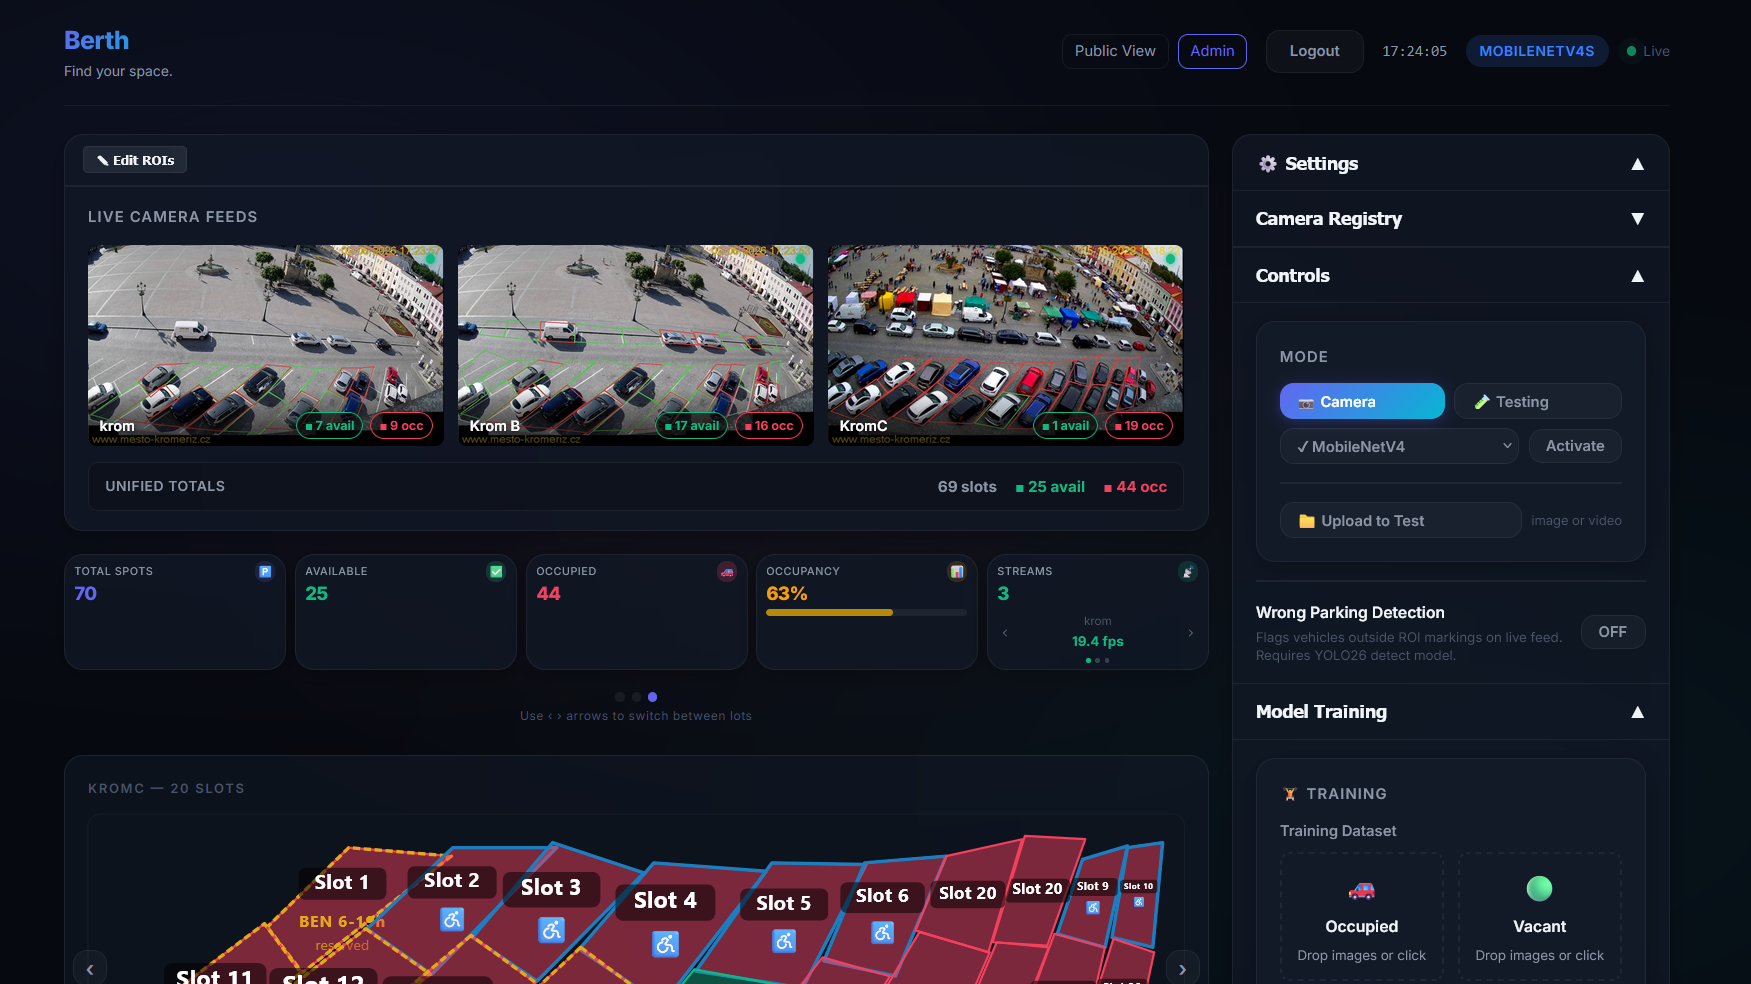
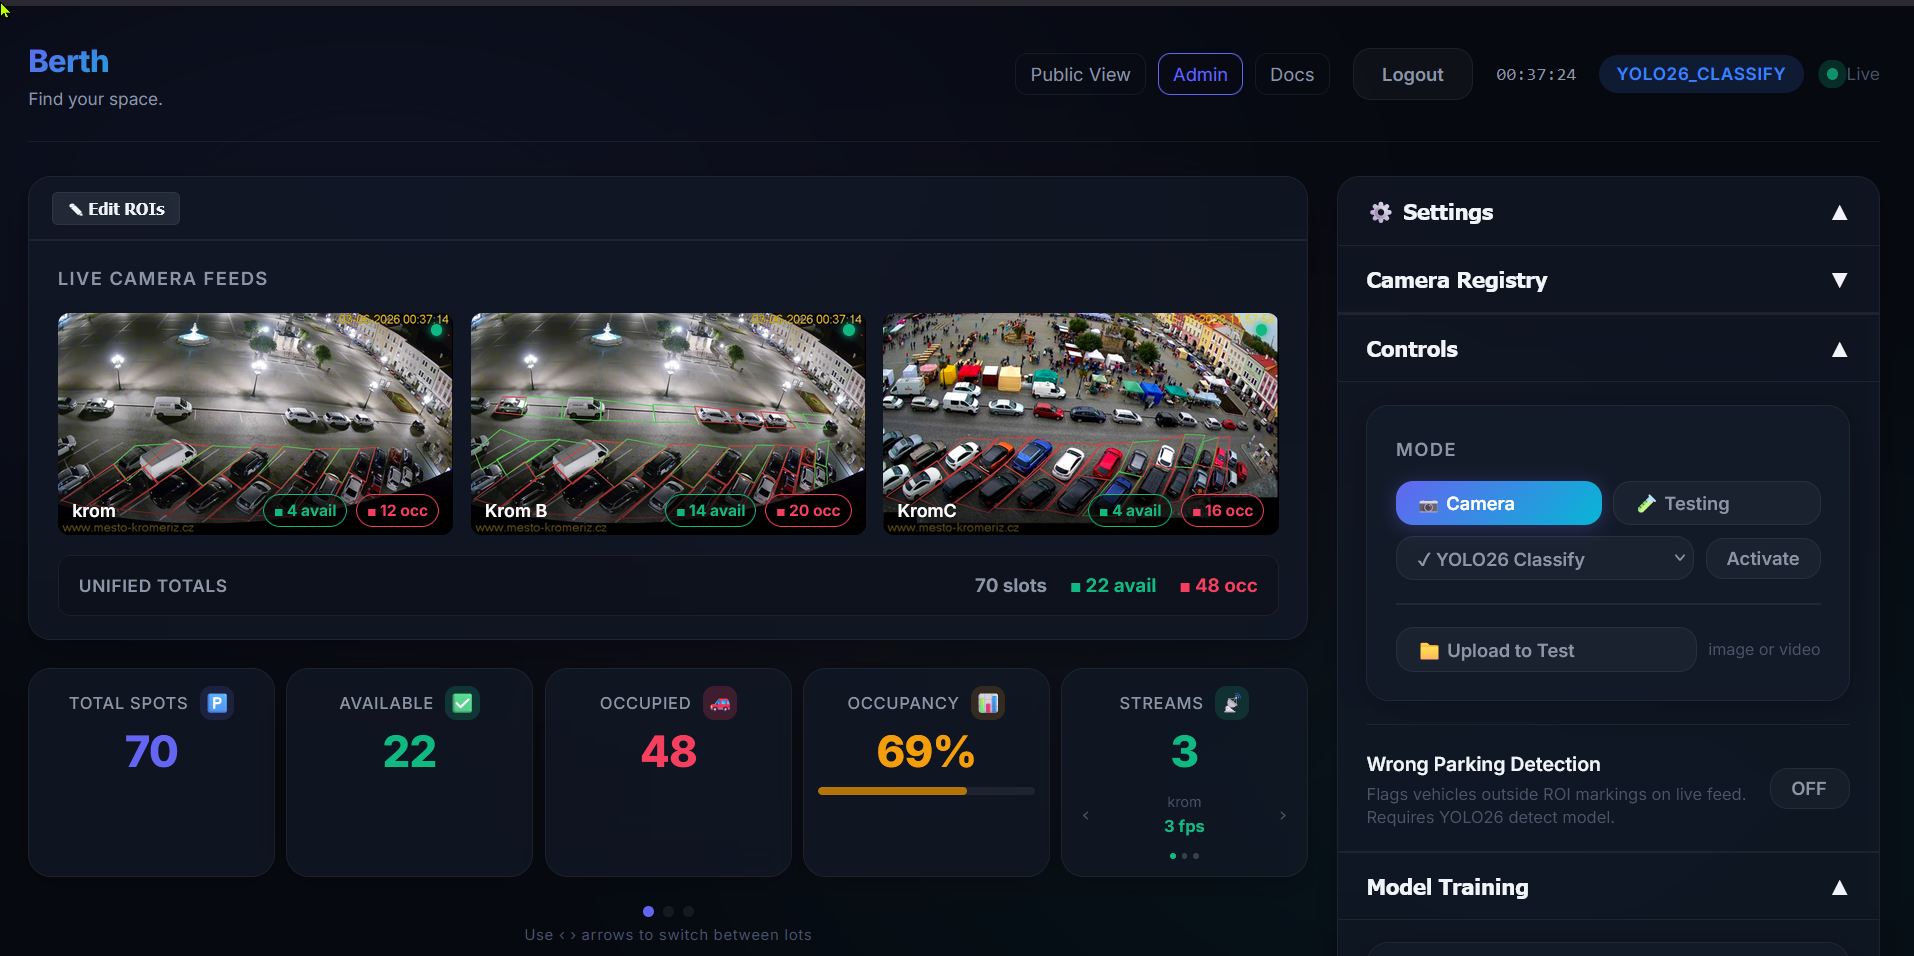
Make roi draw over other object. Beautify the public view

diff --git a/frontend/src/components/ControlPanel.jsx b/frontend/src/components/ControlPanel.jsx
@@ -1,4 +1,5 @@
 import { useState, useRef, useEffect } from 'react'
+import { createPortal } from 'react-dom'
 import { apiFetch } from '../api'
 import RoiEditor from './RoiEditor'
 
@@ -121,7 +122,7 @@ export default function ControlPanel({ apiAction, apiBase, modelInfo, fetchModel
   // Named ROI lots — separate from live camera ROIs
   const [lots, setLots]               = useState(loadLots)
   const [newLotName, setNewLotName]   = useState('')
-  const [selectedLotId, setSelectedLotId] = useState(() => loadLots()[0]?.id || DEFAULT_LOT.id)
+  const [selectedLotId, setSelectedLotId] = useState(() => loadLots()[0]?.id || DEFAULT_LOTS[0]?.id || null)
 
   // Keep live model in sync with server's active model
   useEffect(() => {
@@ -163,8 +164,7 @@ export default function ControlPanel({ apiAction, apiBase, modelInfo, fetchModel
   const saveRois = async (roiList) => {
     if (!selectedLotId) return
     try {
-      const data = await saveRoisToLot(selectedLotId, roiList)
-      showRoiMsg(`Saved ${data.saved} ROIs`)
+      await saveRoisToLot(selectedLotId, roiList)
     } catch (e) {
       showRoiMsg(`Error: ${e.message}`)
     }
@@ -480,13 +480,14 @@ export default function ControlPanel({ apiAction, apiBase, modelInfo, fetchModel
               <button
                 className="btn btn-ghost btn-sm"
                 onClick={() => {
-                  setModalLotName(lots.find(l => l.id === selectedLotId)?.name || '')
+                  setRois([])
+                  setModalLotName('')
                   setRoiEditorBg(uploadedImage)
                   setRoiModalOpen(true)
                 }}
                 title="Draw or edit ROIs — you can rename or save as a new set"
               >
-                ✏️ Draw ROIs
+                ✏️ ROI
               </button>
               {rois.length > 0 && (
                 <span className="badge badge-info">
@@ -559,10 +560,10 @@ export default function ControlPanel({ apiAction, apiBase, modelInfo, fetchModel
         </div>
       )}
 
-      {/* ROI Editor Modal — fullscreen */}
-      {roiModalOpen && (
+      {/* ROI Editor Modal — fullscreen portal */}
+      {roiModalOpen && createPortal(
         <div style={{
-          position: 'fixed', inset: 0, zIndex: 1000,
+          position: 'fixed', inset: 0, zIndex: 9999,
           background: 'rgba(0,0,0,0.96)',
           display: 'flex', flexDirection: 'column',
         }}>
@@ -571,8 +572,10 @@ export default function ControlPanel({ apiAction, apiBase, modelInfo, fetchModel
             padding: '10px 14px', borderBottom: '1px solid var(--border-color)',
             background: 'var(--bg-card)', flexShrink: 0, gap: 8,
           }}>
+            <style>{`.roi-name-input::placeholder{color:rgba(200,210,225,0.6)}`}</style>
             <input
               type="text"
+              className="roi-name-input"
               value={modalLotName}
               onChange={e => setModalLotName(e.target.value)}
               placeholder="ROI set name…"
@@ -601,8 +604,7 @@ export default function ControlPanel({ apiAction, apiBase, modelInfo, fetchModel
                 }
                 setSelectedLotId(targetId)
                 try {
-                  const data = await saveRoisToLot(targetId, rois)
-                  showRoiMsg(`Saved ${data.saved} ROIs to "${name}"`)
+                  await saveRoisToLot(targetId, rois)
                 } catch (e) {
                   showRoiMsg(`Error: ${e.message}`)
                 }
@@ -627,8 +629,19 @@ export default function ControlPanel({ apiAction, apiBase, modelInfo, fetchModel
             >✕</button>
           </div>
 
-          <div style={{ flex: 1, position: 'relative', overflow: 'hidden' }}>
-            <RoiEditor backgroundImage={roiEditorBg} rois={rois} onRoisChange={setRois} idPrefix="test" overlay />
+          <div style={{ flex: 1, display: 'flex', alignItems: 'center', justifyContent: 'center', overflow: 'hidden', background: '#000' }}>
+            <div style={{ position: 'relative', maxWidth: '100%', maxHeight: '100%' }}>
+              {roiEditorBg && (
+                <img
+                  src={roiEditorBg}
+                  alt="ROI background"
+                  style={{ display: 'block', maxWidth: '100%', maxHeight: 'calc(100vh - 60px)', objectFit: 'contain', userSelect: 'none', pointerEvents: 'none' }}
+                />
+              )}
+              <div style={{ position: 'absolute', inset: 0 }}>
+                <RoiEditor rois={rois} onRoisChange={setRois} idPrefix="test" overlay />
+              </div>
+            </div>
           </div>
 
           {roiMsg && (
@@ -640,7 +653,8 @@ export default function ControlPanel({ apiAction, apiBase, modelInfo, fetchModel
               {roiMsg}
             </div>
           )}
-        </div>
+        </div>,
+        document.body
       )}
     </div>
   )

diff --git a/frontend/src/pages/PublicView.jsx b/frontend/src/pages/PublicView.jsx
@@ -268,6 +268,18 @@ export default function PublicView() {
         </div>
       )}
 
+      {/* Metric cards */}
+      <div style={{
+        display: 'grid',
+        gridTemplateColumns: 'repeat(4, 1fr)',
+        gap: 16,
+        width: '100%',
+        maxWidth: 800,
+        marginBottom: 32,
+      }}>
+        <MetricCards metrics={displayMetrics} />
+      </div>
+
       {/* Lot map */}
       {allCameraSlots.length > 0 && (() => {
         const safeIdx = Math.min(lotMapIdx, allCameraSlots.length - 1)
@@ -306,18 +318,6 @@ export default function PublicView() {
           </div>
         )
       })()}
-
-      {/* Metric cards */}
-      <div style={{
-        display: 'grid',
-        gridTemplateColumns: 'repeat(4, 1fr)',
-        gap: 16,
-        width: '100%',
-        maxWidth: 800,
-        marginBottom: 32,
-      }}>
-        <MetricCards metrics={displayMetrics} />
-      </div>
 
       {/* Trends chart */}
       <div style={{ width: '100%', maxWidth: 800, marginBottom: 32 }}>

diff --git a/frontend/src/components/RoiEditor.jsx b/frontend/src/components/RoiEditor.jsx
@@ -1,6 +1,6 @@
 import { useState, useEffect, useRef, useCallback } from 'react'
 
-const COLORS = ["#2ecc71", "#e74c3c", "#3498db", "#f39c12", "#9b59b6"]
+const ROI_COLOR = '#10b981'
 const SPOT_TYPE_COLORS = { normal: null, reserved: '#e6a817', handicap: '#1a7fc1' }
 const HIT_PX = 10
 
@@ -90,7 +90,7 @@ export default function RoiEditor({
       const isDrawing = inProgress.length > 0
       const spotType = roi.spotType || 'normal'
       const typeColor = SPOT_TYPE_COLORS[spotType]
-      const baseColor = typeColor || (roi.color || COLORS[idx % COLORS.length])
+      const baseColor = typeColor || ROI_COLOR
       const color = isDrawing && !isSelected ? '#2ecc71' : baseColor
       const fillColor = isDrawing && !isSelected ? 'rgba(46,204,113,0.25)' : hexToRgba(color, 0.3)
       const poly = (isSelected && editPolygon) ? editPolygon : roi.polygon
@@ -303,7 +303,7 @@ export default function RoiEditor({
       id: `${idPrefix}_${Date.now()}_${Math.random().toString(36).slice(2, 7)}`,
       label: `Slot ${rois.length + 1}`,
       polygon,
-      color: COLORS[rois.length % COLORS.length],
+      color: ROI_COLOR,
       spotType: 'normal',
       owner: '',
     }])
@@ -314,7 +314,7 @@ export default function RoiEditor({
     const prop = proposals.find(p => p.id === propId)
     if (!prop) return
     const { proposed: _omit, ...base } = prop
-    commitChange([...rois, { ...base, color: COLORS[rois.length % COLORS.length] }])
+    commitChange([...rois, { ...base, color: ROI_COLOR }])
     onProposalsChange(proposals.filter(p => p.id !== propId))
     setSelectedProposalId(null)
   }, [proposals, rois, commitChange, onProposalsChange])
@@ -323,7 +323,7 @@ export default function RoiEditor({
     if (!onProposalsChange || proposals.length === 0) return
     const newRois = proposals.map((prop, i) => {
       const { proposed: _omit, ...base } = prop
-      return { ...base, color: COLORS[(rois.length + i) % COLORS.length] }
+      return { ...base, color: ROI_COLOR }
     })
     commitChange([...rois, ...newRois])
     onProposalsChange([])
@@ -352,7 +352,7 @@ export default function RoiEditor({
       id: `${idPrefix}_${Date.now()}_${Math.random().toString(36).slice(2, 7)}`,
       label: `${roi.label} copy`,
       polygon: roi.polygon.map(([x, y]) => [Math.min(1, x + OFFSET), Math.min(1, y + OFFSET)]),
-      color: COLORS[rois.length % COLORS.length],
+      color: ROI_COLOR,
     }])
   }, [selectedId, rois, commitChange, idPrefix])
 

diff --git a/backend/main.py b/backend/main.py
@@ -197,15 +197,18 @@ _clf_cache: dict = {}
 _clf_lock = threading.Lock()
 
 def _get_classifier(model_name: str):
+    # 'yolo26' and 'yolo26_classify' load the same weights — share one cached
+    # instance so the model isn't held in memory twice.
+    cache_key = "yolo26_classify" if model_name in ("yolo26", "yolo26_classify") else model_name
     with _clf_lock:
-        if model_name not in _clf_cache:
+        if cache_key not in _clf_cache:
             from src.inference.classifier import get_classifier
-            clf = get_classifier(model_name=model_name)
+            clf = get_classifier(model_name=cache_key)
             clf.load()
             if not clf.is_loaded():
                 raise Exception(f"Model '{model_name}' failed to load")
-            _clf_cache[model_name] = clf
-        return _clf_cache[model_name]
+            _clf_cache[cache_key] = clf
+        return _clf_cache[cache_key]
 
 def _clear_clf_cache():
     with _clf_lock:

diff --git a/log_combined.md b/log_combined.md
@@ -282,3 +282,72 @@ Replaced hardcoded 18-slot grid with polygon/rectangle ROI editor. `RoiStore` pe
 ### Frontend (`frontend/src/components/MultiCameraGrid.jsx`)
 
 - **Transient vs permanent `feed_unavailable`** — `"Camera is not active"` is now treated as transient: `stopReconnect.current` stays `false`, `onclose` schedules a 3-second retry, and the cell shows "Connecting…" instead of an error. All other reasons (stream timeout, camera removed) remain permanent and stop retrying. When the background warmup thread finishes and the processor is ready, the retry succeeds and the feed appears automatically.
+
+---
+
+## 2026-06-03 — Testing-Mode Analyze Latency (~4.5s→~1s, varying spikes to 20s)
+
+### Diagnosis (measured, not assumed)
+
+- Added temporary stage timing to `analyze_roi` (backend) and `handleTest` (frontend), then removed it. Proved the bottleneck was **not** inference (≤0.8s), JSON parse (~10ms), or image render (~20ms). Cost lived in: (1) a one-time ~2s model **load** on each model's first click, and (2) moving a full-res **3200×1800 image** around — upload + server decode + the ~1.4MB base64 response. `camera_id` confirmed to be only an ROI namespace (ROIs are sent inline via `rois_json`), not a compute factor.
+
+### Backend (`backend/main.py`)
+
+- **Pre-warm all classifiers at startup** — Extended the `startup-warmup` daemon thread to call `_get_classifier()` for all five models after the processor warm-up. First analyze of each model is now hot (~0ms load) instead of paying ~2s cold load when switching models to compare them.
+- **Cap annotated output to ≤1280px** — `analyze_roi` now `cv2.resize`s the annotated frame down before base64 encoding (result is shown in a narrow side panel). Shrinks the response payload.
+
+### Frontend (`frontend/src/components/ControlPanel.jsx`)
+
+- **Downscale upload to ≤1600px** — Added `downscaleForUpload()` (createImageBitmap → canvas → JPEG blob) used in `handleTest` before POST. Crops classify at 64px and ROIs are normalised (0–1), so resizing is lossless for accuracy; upload drops ~1.1MB → ~0.2–0.4MB. Falls back to the original file on any failure.
+
+### Frontend (`frontend/src/config.js`)
+
+- **`localhost` → `127.0.0.1`** — `API_BASE` now uses `127.0.0.1` when hostname is `localhost`, avoiding the Windows IPv6 (`::1`) connect stall (~1–2s/request); real hostnames preserved for remote access.
+
+### Follow-up minor touches
+
+- **Fixed latent crash** (`ControlPanel.jsx`) — `selectedLotId` init referenced undefined `DEFAULT_LOT.id`; would `ReferenceError` and crash the panel whenever `loadLots()` returned `[]`. Changed to `DEFAULT_LOTS[0]?.id || null`.
+- **Deduped YOLO classifier in RAM** (`main.py`) — `_get_classifier` now maps both `yolo26` and `yolo26_classify` to one shared cache key, so the identical weights aren't held in memory twice (also means the startup pre-warm loads YOLO once).
+- ResNet-50 left in the startup pre-warm set (in active use).
+- **Public View layout** (`PublicView.jsx`) — moved the metric cards above the lot map so headline occupancy numbers read before the per-slot map.
+
+---
+
+## 2026-06-03 — Docs, 404, Controls UX & ROI Editor Overhaul
+
+### Docs Page (`frontend/src/pages/DocsPage.jsx`, `App.jsx`, `Header.jsx`)
+
+- **`/admin/docs` Getting Started guide** — 8-section operator reference: System Overview, Admin Login, Connecting a Camera (USB / RTSP / YouTube, credential env-var pattern sourced from README), Drawing ROIs, Choosing a Model, Dashboard Walkthrough, Anomaly Detection, Training. PIN-gated same as `/admin`. "Docs" nav link added to Header, highlights when active.
+
+### 404 Handling
+
+- **Frontend 404 page** (`NotFoundPage.jsx`) — Catch-all `path="*"` route; "Go Home" routes to `/admin` when `sessionStorage` shows admin auth, otherwise `/`.
+- **Backend 404 handler** (`main.py`) — `@app.exception_handler(404)` returns `{"detail": "We looked everywhere and we couldn't find that!"}`.
+
+### Backend Bug Fix (`backend/src/models/model_factory.py`)
+
+- **`pretrained` kwarg crash** — `load_model()` was injecting `pretrained=False` into kwargs for all models including `ParkingCNN`, which has no such parameter. Scoped the injection to `resnet50` and `mobilenetv4s` only.
+
+### Controls — Testing Panel UX (`frontend/src/components/ControlPanel.jsx`)
+
+- **Removed** "New lot name…" input and "+ New" button from the testing area.
+- **Removed** both "✕ Remove" buttons (uploaded image row and result image row).
+- **Added** ✕ circle overlay (top-right) on uploaded image and result image to clear state.
+- **Added** "⬇ Save" button on result image — triggers browser download of the annotated JPEG.
+- **"✏️ ROI" button** (renamed from "Draw ROIs") opens a blank canvas with no pre-loaded ROIs; ✎ button still loads and edits existing ROIs.
+- **ROI name input in modal** — user can type a name before saving; creates a new named lot if the name is new, overwrites if it matches an existing one.
+- **Fixed ghost lot reappearance** — `loadLots()` now only seeds `DEFAULT_LOTS` when the `localStorage` key is absent (first run). Previously re-inserted deleted lots on every call, causing repeated `DELETE /api/roi/…` 404s.
+- **ROI save success notifications removed** — silent on success; errors and validation messages retained.
+- **Brighter placeholder** on ROI name input (`.roi-name-input::placeholder` injected style).
+
+### ROI Editor Modal (`ControlPanel.jsx`, `RoiEditor.jsx`)
+
+- **React portal** — modal rendered via `createPortal(…, document.body)` with `zIndex: 9999`; escapes sidebar stacking context and covers the full viewport.
+- **Image-behind-canvas** — uploaded image rendered as a real `<img>` (max-height `calc(100vh - 60px)`, `object-fit: contain`) with the RoiEditor canvas in `overlay` mode sitting `position: absolute, inset: 0` on top. Canvas is transparent; photo shows through.
+- **Canvas repaint fix** (`RoiEditor.jsx`) — added `requestAnimationFrame(() => { syncSize(); redraw() })` on mount so the canvas repaints after the flex layout settles; previously the image loaded onto a zero-height canvas and never re-rendered.
+- **Background image in overlay mode** (`RoiEditor.jsx`) — removed the `overlay ||` short-circuit in the background-image `useEffect` so `backgroundImage` prop is honoured regardless of overlay flag.
+- **✕ cancel button** — fixed 30×30 icon button always visible in modal header; compact "Save" replaces "Save & Close".
+
+### ROI Editor Colors (`RoiEditor.jsx`)
+
+- **All ROIs now green** — replaced the 5-color `COLORS` array with a single `ROI_COLOR = '#10b981'`; applied to all new ROI creation paths and the redraw `baseColor` fallback. Spot-type colors (reserved amber, handicap blue) unchanged.